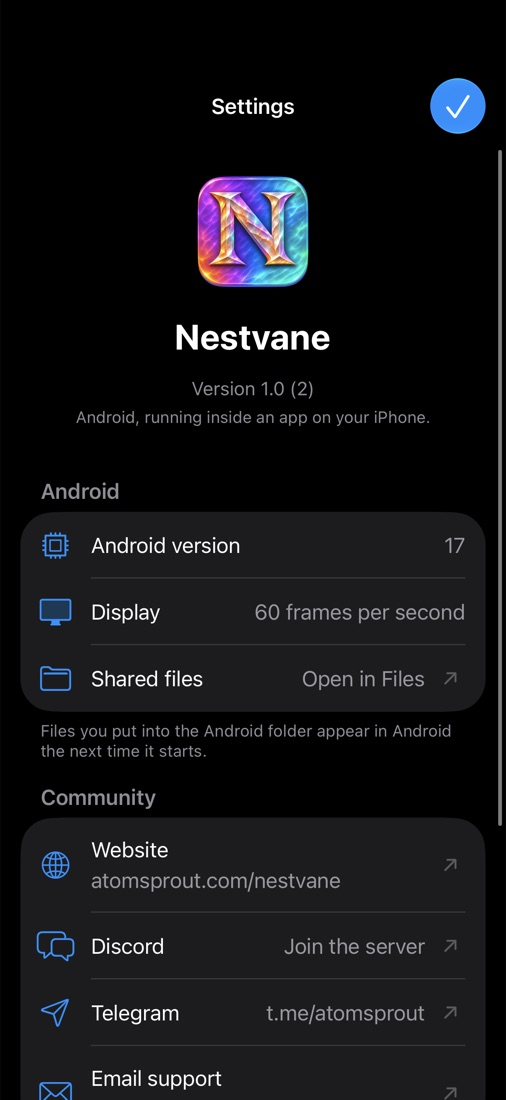
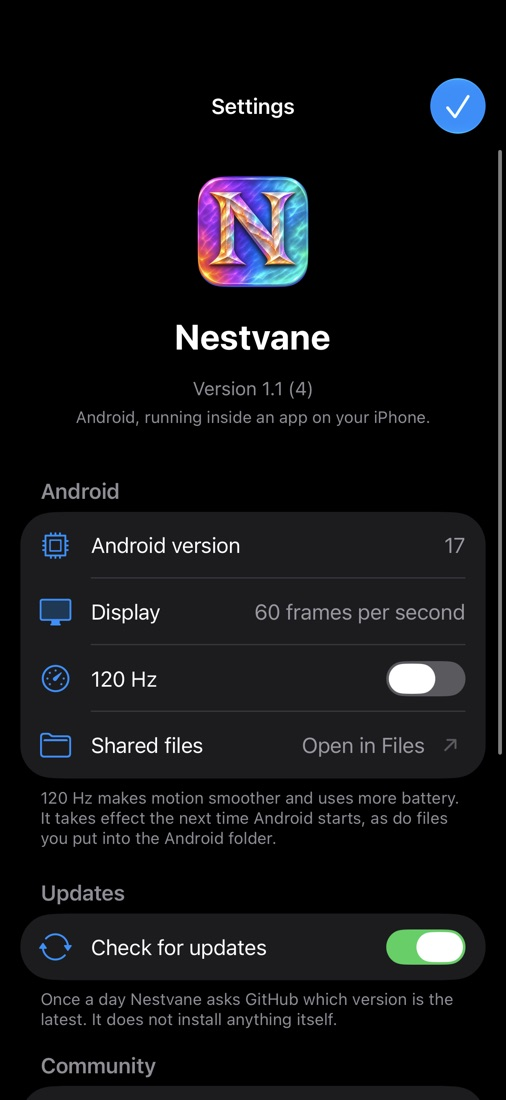
site and README: the numbers, pictures and features of 1.1

Changed region(s): [[0.0296, 0.5873, 1.0, 1.0], [0.3854, 0.34, 0.6225, 0.3709]]

diff --git a/website/src/home-content.js b/website/src/home-content.js
@@ -7,6 +7,7 @@ const shots = captions => [
   {file: 'nestvane-network-wikipedia.jpg', width: 582, height: 1058},
   {file: 'nestvane-shared-folder-files.jpg', width: 582, height: 1058},
   {file: 'nestvane-settings-battery-about.jpg', width: 582, height: 1058},
+  {file: 'nestvane-text-message.jpg', width: 582, height: 1058},
   {file: 'nestvane-settings.jpg', width: 506, height: 1100},
 ].map((shot, index) => ({...shot, caption: captions[index][0], alt: captions[index][1]}));
 
@@ -37,10 +38,11 @@ export const content = {
       ['Wikipedia, loaded over the network', 'The Wikipedia app for Android showing its home feed with a featured article.'],
       ['A file from the iPhone, in Android’s Files', 'Android’s Files app showing the Downloads folder with one file, hello-from-ios.md.'],
       ['Android Settings', 'Android Settings showing Battery at 100% and About emulated device: Nestvane, among other entries.'],
-      ['Nestvane’s settings', 'Nestvane’s own settings: version 1.0, Android version 17, display at 60 frames per second, shared files and community links.'],
+      ['A text message written in Nestvane', 'Android’s Messaging app showing one message from 555-0100: Your code is 482913.'],
+      ['Nestvane’s settings', 'Nestvane’s own settings: version 1.1, Android version 17, display at 60 frames per second, a 120 Hz switch that is off, shared files, and a switch to check for updates.'],
     ]),
     worksTitle: 'What works today',
-    worksIntro: 'Nestvane is early. This is what the first release does.',
+    worksIntro: 'Nestvane is early. This is what version 1.1 does.',
     works: [
       ['Android 17', 'The home screen, Settings and Files, built from the Android Open Source Project.'],
       ['APK files', 'Open an APK with Nestvane from another app, or choose Install APK in Nestvane.'],
@@ -49,15 +51,19 @@ export const content = {
       ['Home screen widgets', 'Add widgets from installed apps to the Android home screen.'],
       ['Video and sound', 'Android apps play video, and their sound comes out of your iPhone.'],
       ['Your iPhone’s clock and battery', 'Android shows your time zone and battery level.'],
+      ['120 Hz', 'On a ProMotion screen Android can draw 120 frames a second. It is off until you turn it on in Nestvane’s settings, and uses more battery.'],
+      ['Text messages you write', 'Send Text Message in Nestvane’s menu hands Android a sender and a text, and Messaging shows it as an incoming message. Nothing is sent to anyone.'],
+      ['Update notice', 'Once a day Nestvane asks GitHub which release is the latest and tells you when there is a newer one. It installs nothing itself.'],
     ],
     figures: [
       ['Start to the Android home screen', 'About 10 s'],
       ['The first start after installing', 'About 17 s'],
-      ['Scrolling, on a 60 Hz display', 'Up to about 55 fps'],
+      ['A finger moving a list, 120 Hz on', '85–120 fps shown'],
+      ['The same, 120 Hz off', '58–60 fps'],
       ['Open-source apps installed in testing', '15'],
     ],
-    figuresNote: 'Start times on iPhone 17 Pro, scrolling on iPhone 15 Pro. The 15 apps install from their APK files; not all of them run well.',
-    figuresMore: 'Version 1.0 in numbers',
+    figuresNote: 'Version 1.1. Start times with about a dozen apps installed; with none it is about 8 s. Frame rates on iPhone 15 Pro: what was counted is frames handed to iOS, not refreshes of the screen itself. The 15 apps install from their APK files; not all of them run well.',
+    figuresMore: 'The numbers in full',
     howTitle: 'How it works',
     howIntro: 'iOS does not let an app create new machine code while it runs, so Nestvane cannot translate Android’s code on the fly. It is an ordinary app made of four pieces.',
     pieces: [
@@ -67,13 +73,14 @@ export const content = {
       ['An interpreter for the rest', 'Code that was not translated in advance, such as the native libraries some apps bring in their APK, is run one instruction at a time by an interpreter. That works, but it is much slower.'],
     ],
     diagramAlt: 'Nestvane architecture: Android apps on Android 17 user space, running as ahead-of-time translated code or in an interpreter, on a Linux kernel layer inside the app, with bridges to the iPhone for graphics, storage, network, sound and input.',
-    howMore: 'The screen is drawn with the iPhone’s graphics processor and shown at 60 frames a second.',
+    howMore: 'The screen is drawn with the iPhone’s graphics processor and shown at 60 frames a second, or at 120 on a ProMotion screen when you turn that on.',
     howMoreLink: 'Read the architecture',
     limitsTitle: 'Limits',
     limits: [
       'Nestvane is not on the App Store. The release is an IPA that you sideload, signed with a paid Apple Developer Program membership (US$99 a year): it needs the Extended Virtual Addressing and Increased Memory Limit capabilities, and a free Apple ID does not get the first. There is no way yet for people without a developer account to run it.',
       'Video is decoded in software: 720p plays at its full 30 frames a second, and higher resolutions have not been measured.',
       'There is no recording, and Android apps cannot use the microphone.',
+      'There are no phone calls and no real SMS. A text message you write in Nestvane shows in Messaging, but apps that wait for an incoming SMS, to read a code for example, do not see it.',
       'There are no Google apps or Google Play services. Apps that require them will not run.',
       'Apps that bring their own native code run noticeably slower than on an Android phone.',
       'Some apps do not start. Tell us which ones matter to you.',
@@ -83,7 +90,7 @@ export const content = {
     requirementsTitle: 'Requirements',
     requirements: [
       'iOS 26 or later. Nestvane has been tested on iPhone 15 Pro and iPhone 17 Pro; no other phone has been tried.',
-      'The app is a download of about 1.1 GB and uses about 2.2 to 2.7 GB of memory while Android runs.',
+      'The app is a download of about 1.1 GB and uses about 2.4 to 2.6 GB of memory while Android runs.',
     ],
     thanksTitle: 'With thanks to two similar projects',
     thanks: 'Twoyi showed that Android translated ahead of time, with no JIT, is usable on an iPhone, and Nestvane follows that idea. Kernarium runs a real Linux kernel on iOS in the open, and was the system to learn from. Nestvane shares no code with either and was written from nothing.',

diff --git a/README.zh-CN.md b/README.zh-CN.md
@@ -98,7 +98,7 @@ Nestvane 走的是剩下的那条路：**把 Android 重新构建并提前翻译
 - [设备](docs/zh-CN/devices.md)——图形、存储、网络和声音
 - [设计笔记](docs/zh-CN/design-notes.md)——做过的取舍，和最有教益的那些问题
 - [构建](docs/zh-CN/building.md)与[现状](docs/zh-CN/status.md)
-- [安装发布版](docs/zh-CN/installing.md)、[数字里的 1.0](docs/zh-CN/measurements.md)、
+- [安装发布版](docs/zh-CN/installing.md)、[数字里的 Nestvane](docs/zh-CN/measurements.md)、
   [Nestvane、两仪和 Andarium](docs/zh-CN/comparison.md)
 - [四天是怎么做出来的](https://atomsprout.com/nestvane/blog/android-17-inside-an-iphone-app/)（博客，英文）
 
@@ -110,9 +110,9 @@ Nestvane 走的是剩下的那条路：**把 Android 重新构建并提前翻译
 | --- | --- |
 | 启动到 Android 桌面 | 约 8 秒；加上媒体服务后约 10 秒 |
 | 同上，iPhone 17 Pro | 9.5–10.9 秒；安装后的第一次约 17 秒 |
-| 内存占用 | 约 2.2–2.7 GB |
-| App 下载大小 | 1.06 GB |
-| 滑动列表 | 60 Hz 下最高约每秒 55 帧 |
+| 内存占用 | 约 2.4–2.6 GB |
+| App 下载大小 | 1.07 GB |
+| 手指持续拖动列表 | 每秒 58–60 帧；打开 120 Hz 后合成 113–121 帧、显示 85–120 帧 |
 | 播放 1280×720 的 H.264 视频 | 每秒 30 帧，与时钟同步 |
 | 翻译的模块 | 约 1230 个，分在 12 个 framework 里 |
 | 用 APK 装上的开源应用 | 15 个 |
@@ -120,7 +120,7 @@ Nestvane 走的是剩下的那条路：**把 Android 重新构建并提前翻译
 ## 运行要求
 
 - iOS 26 及以上。在 iPhone 15 Pro 和 iPhone 17 Pro 上测试过。
-- 别的手机没有测过。Android 需要约 2.2–2.7 GB 内存，超过 iPhone 11 给单个 App 的上限。
+- 别的手机没有测过。Android 需要约 2.4–2.6 GB 内存，超过 iPhone 11 给单个 App 的上限。
 - [Releases](https://github.com/atomsprout/nestvane/releases) 里有一个不带签名的 IPA，需要用你自己的 Apple 开发者身份签名，
   做法和可用的侧载工具见 [docs/zh-CN/installing.md](docs/zh-CN/installing.md)。Nestvane 没有上架 App Store。
 - **需要付费的 Apple Developer Program 会员（每年 99 美元）。** App 签名时必须带上两项能力：Extended Virtual Addressing

diff --git a/README.md b/README.md
@@ -103,7 +103,7 @@ Read more in the documentation:
 - [Devices](docs/devices.md) — graphics, storage, network and sound
 - [Design notes](docs/design-notes.md) — decisions, and the problems that taught the most
 - [Building](docs/building.md) and [Status](docs/status.md)
-- [Installing the release](docs/installing.md), [1.0 in numbers](docs/measurements.md), and
+- [Installing the release](docs/installing.md), [Nestvane in numbers](docs/measurements.md), and
   [Nestvane, Twoyi and Andarium](docs/comparison.md)
 - [How it was built in four days](https://atomsprout.com/nestvane/blog/android-17-inside-an-iphone-app/), on the blog
 
@@ -116,9 +116,9 @@ On an iPhone 15 Pro unless noted. The running record, with every measurement, is
 | --- | --- |
 | Boot to the Android launcher | about 8 s; about 10 s with the media services |
 | The same on an iPhone 17 Pro | 9.5–10.9 s; about 17 s the first time after installing |
-| Memory footprint | about 2.2–2.7 GB |
-| App download | 1.06 GB |
-| Scrolling a list | up to about 55 frames a second at 60 Hz |
+| Memory footprint | about 2.4–2.6 GB |
+| App download | 1.07 GB |
+| A finger kept moving on a list | 58–60 frames a second; with 120 Hz on, 113–121 composed and 85–120 shown |
 | Playing a 1280×720 H.264 video | 30 frames a second, in step with the clock |
 | Translated modules | about 1,230, in 12 frameworks |
 | Open-source apps installed from APK | 15 |
@@ -126,7 +126,7 @@ On an iPhone 15 Pro unless noted. The running record, with every measurement, is
 ## Requirements
 
 - iOS 26 or later. Tested on iPhone 15 Pro and iPhone 17 Pro.
-- No other phone has been tested. Android needs about 2.2–2.7 GB of memory, more than an iPhone 11 gives one app.
+- No other phone has been tested. Android needs about 2.4–2.6 GB of memory, more than an iPhone 11 gives one app.
 - The [releases](https://github.com/atomsprout/nestvane/releases) carry an IPA with no signature. You sign it
   with your own Apple developer identity; [docs/installing.md](docs/installing.md) says how, and which
   sideloading tools there are. Nestvane is not on the App Store.

diff --git a/docs/measurements.md b/docs/measurements.md
@@ -1,10 +1,30 @@
-# Nestvane 1.0 in numbers
+# Nestvane in numbers
 
 Nestvane starts Android 17 inside an iPhone app, without a just-in-time compiler and without a hypervisor.
 This is the last report before the source is published: what the first release measures, on which phone, and
 where the numbers stop. Every figure comes from the lab record, [`results/G0.md`](../results/G0.md).
 
-## One run from a fresh install
+## Version 1.1
+
+Measured on 22 November 2026 with the release build of 1.1, on an iPhone 15 Pro (iOS 26.2) and an iPhone 17 Pro
+(iOS 27.0.1). The rest of this page is the report written for 1.0 and is kept as it was.
+
+| | |
+| --- | --- |
+| Boot to the Android home screen, no apps added | 7.7 to 8.1 s (iPhone 15 Pro); 17.3 s the first time after installing |
+| The same with eight apps kept from 1.0 | 9.8 to 11.6 s (iPhone 17 Pro, installed over 1.0) |
+| Memory footprint at the home screen | 2.38 to 2.55 GB |
+| A finger kept moving on a list, 120 Hz on | 113 to 121 frames a second composed, 85 to 120 shown |
+| The same, 120 Hz off | 58 to 60 |
+| 720p H.264 video | 29 to 32 frames a second of 30 (iPhone 17 Pro) |
+| Installing an APK | 0.1 to 0.5 s |
+| Download | 1.07 GB, about 3.3 GB installed |
+
+"Shown" counts frames handed to iOS, not refreshes of the screen itself. Before 1.1 Android drew at most 60
+frames a second whatever the display was set to: resource overlays of its framework were never applied, because
+the program that applies them was missing from the system image.
+
+## One run from a fresh install (1.0)
 
 On 22 November 2026 the release build was installed on an iPhone 17 Pro (iOS 27.0.1) that did not have the app,
 and everything below was done in order.

diff --git a/docs/zh-CN/measurements.md b/docs/zh-CN/measurements.md
@@ -1,10 +1,29 @@
-# 数字里的 Nestvane 1.0
+# 数字里的 Nestvane
 
 Nestvane 在 iPhone 的一个 App 里启动 Android 17，不用即时编译，也不用虚拟化。
 这是源码公开前的最后一份报告：第一个发布版测出了什么、在哪台手机上测的、数字到哪里为止。
 每个数字都来自实验记录 [`results/G0.md`](../../results/G0.md)。
 
-## 从全新安装开始的一轮
+## 1.1 版
+
+2026 年 11 月 22 日用 1.1 的发布版测得，iPhone 15 Pro（iOS 26.2）和 iPhone 17 Pro（iOS 27.0.1）。
+本页其余部分是为 1.0 写的报告，保持原样。
+
+| | |
+| --- | --- |
+| 开机到 Android 桌面，没有另装应用 | 7.7–8.1 秒（iPhone 15 Pro）；安装后第一次 17.3 秒 |
+| 同上，保留 1.0 时装的 8 个应用 | 9.8–11.6 秒（iPhone 17 Pro，覆盖安装在 1.0 上） |
+| 到桌面时的内存占用 | 2.38–2.55 GB |
+| 手指持续拖动列表，120 Hz 打开 | 每秒合成 113–121 帧，显示 85–120 帧 |
+| 同上，120 Hz 关闭 | 58–60 帧 |
+| 720p H.264 视频 | 每秒 29–32 帧（片源 30 帧，iPhone 17 Pro） |
+| 安装一个 APK | 0.1–0.5 秒 |
+| 下载大小 | 1.07 GB，安装后约 3.3 GB |
+
+“显示”数的是交给 iOS 的帧，不是屏幕本身的刷新次数。1.1 之前无论显示设成多少，Android 每秒最多画 60 帧：
+框架自己的资源覆盖层从来没有生效，因为系统镜像里缺了应用覆盖层的那个程序。
+
+## 从全新安装开始的一轮（1.0）
 
 2026 年 11 月 22 日，发布版被装到一台没有装过这个 App 的 iPhone 17 Pro（iOS 27.0.1）上，下面的事情按顺序做了一遍。
 
